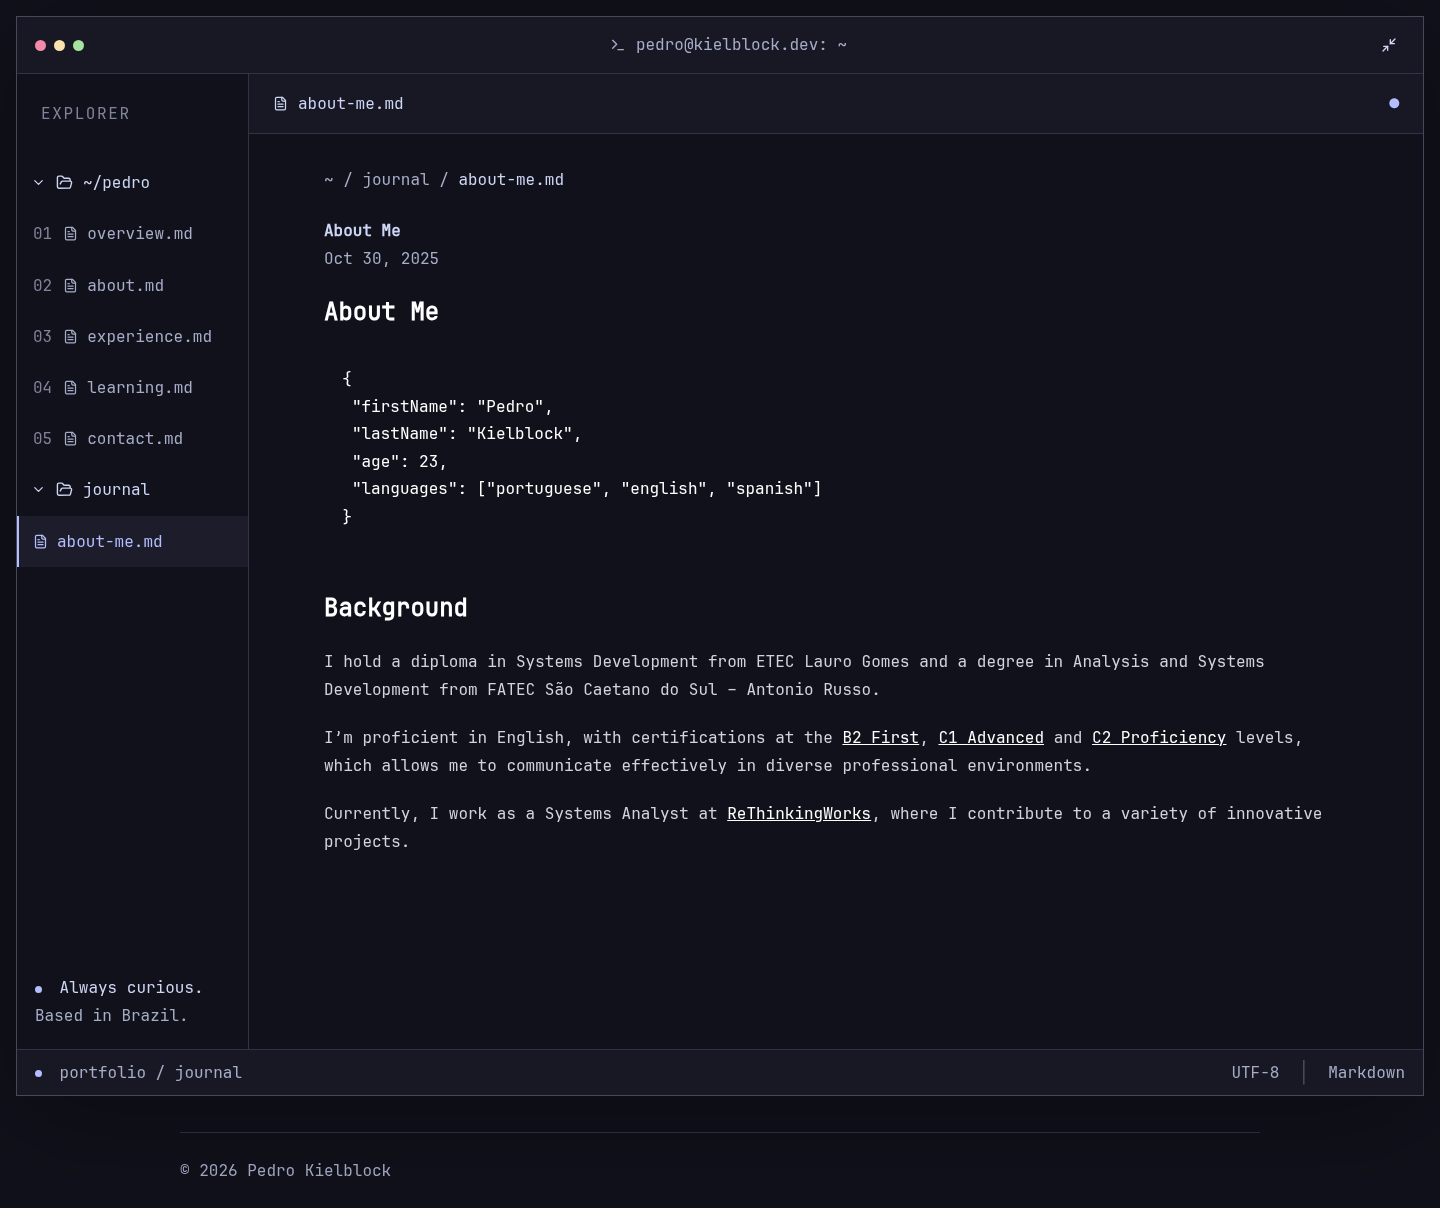
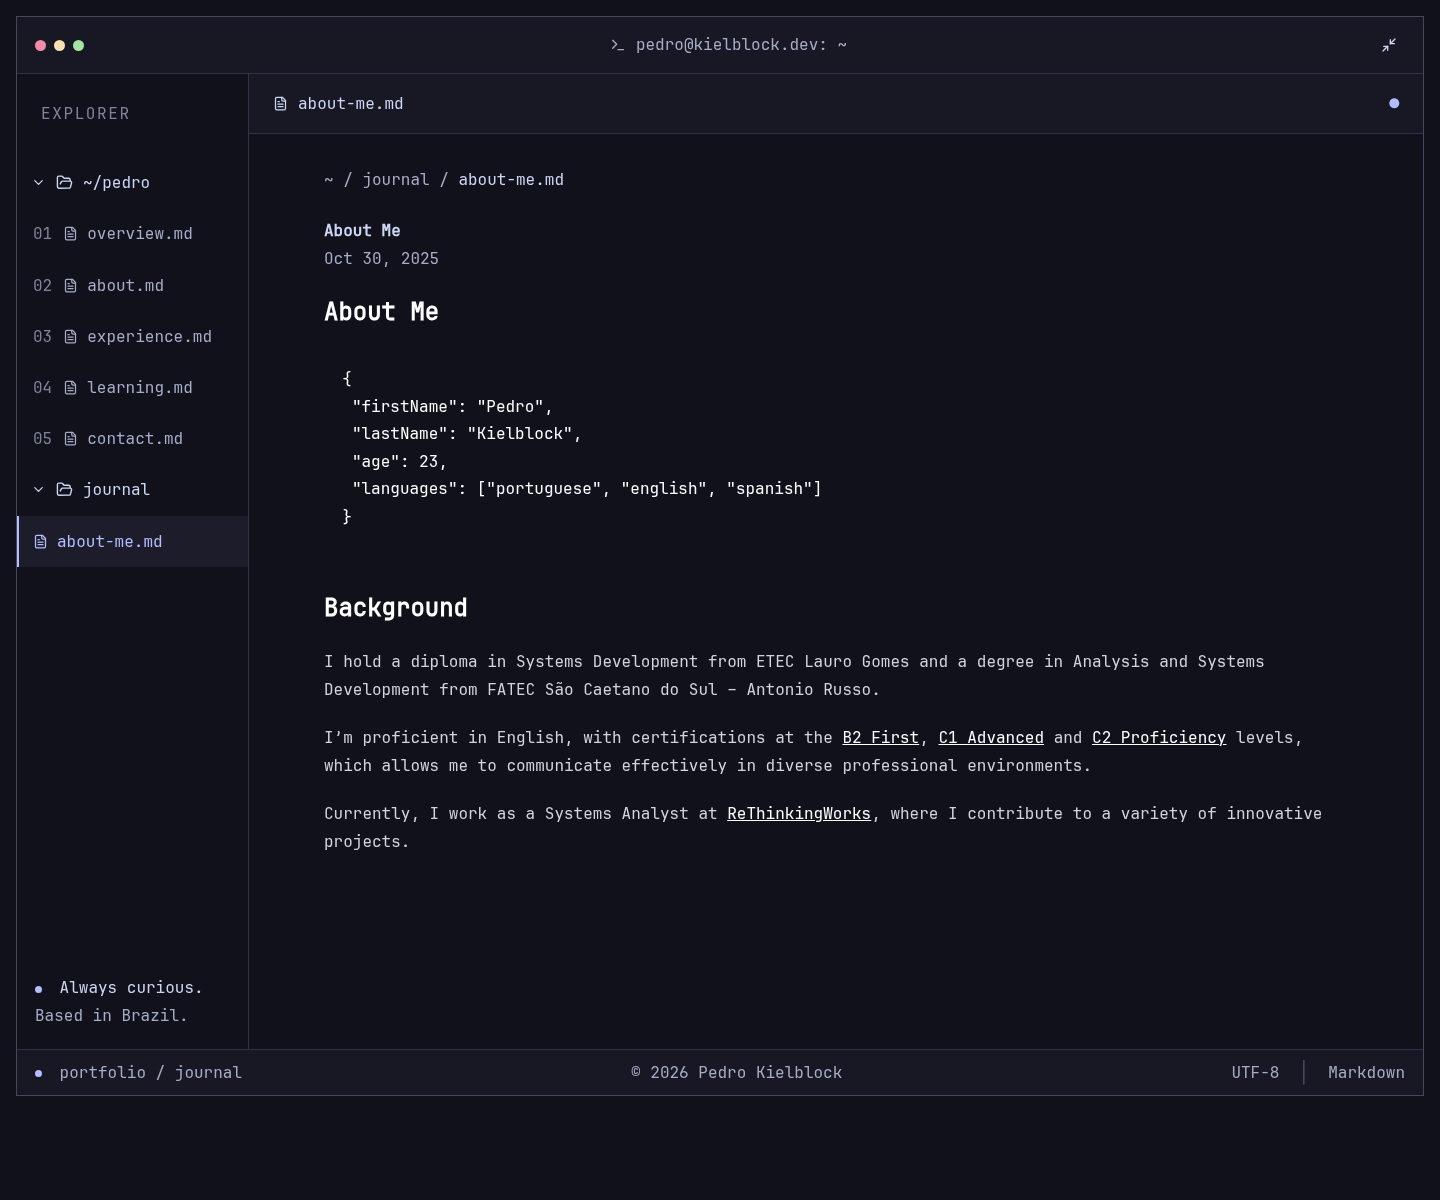
fix: tidy portfolio footer and social links

diff --git a/src/routes/+page.svelte b/src/routes/+page.svelte
@@ -201,7 +201,7 @@
 								<div class="identity">
 									<div>
 										<p class="eyebrow">SOFTWARE DEVELOPER</p>
-										<h1>Pedro Kielblock<span class="accent">_</span></h1>
+										<h1>Pedro Kielblock</h1>
 										<p class="muted">Santo André, São Paulo, BR</p>
 									</div>
 								</div>
@@ -245,12 +245,21 @@
 								<div class="skills">
 									{#each DATA.skills as skill}<span>{skill}</span>{/each}
 								</div>
-								<a
-									class="link-button"
-									href={DATA.contact.social.LinkedIn.url}
-									target="_blank"
-									rel="noopener noreferrer"><Linkedin size={18} /> LinkedIn</a
-								>
+								<div class="social-links">
+									<a
+										class="link-button"
+										href={DATA.contact.social.GitHub.url}
+										target="_blank"
+										rel="noopener noreferrer"
+										><Github size={18} /> GitHub <ArrowUpRight size={16} /></a
+									><a
+										class="link-button"
+										href={DATA.contact.social.LinkedIn.url}
+										target="_blank"
+										rel="noopener noreferrer"
+										><Linkedin size={18} /> LinkedIn <ArrowUpRight size={16} /></a
+									>
+								</div>
 							{:else if section === 'experience'}
 								<p class="comment">// things I've helped build</p>
 								<h1><span class="accent">#</span> Work experience</h1>
@@ -323,21 +332,6 @@
 									>
 								</div>
 								<p class="copy-status" role="status">{copyStatus}</p>
-								<div class="social-links">
-									<a
-										class="link-button"
-										href={DATA.contact.social.GitHub.url}
-										target="_blank"
-										rel="noopener noreferrer"
-										><Github size={18} /> GitHub <ArrowUpRight size={16} /></a
-									><a
-										class="link-button"
-										href={DATA.contact.social.LinkedIn.url}
-										target="_blank"
-										rel="noopener noreferrer"
-										><Linkedin size={18} /> LinkedIn <ArrowUpRight size={16} /></a
-									>
-								</div>
 							{/if}
 						</div>
 					{/key}
@@ -345,9 +339,9 @@
 			</div>
 		</div>
 		<footer class="window-status">
-			<span><span class="status-dot"></span> portfolio / {section}</span><span
-				>UTF-8 <span class="status-separator">│</span> Markdown</span
-			>
+			<span><span class="status-dot"></span> portfolio / {section}</span>
+			<span>© {new Date().getFullYear()} Pedro Kielblock</span>
+			<span>UTF-8 <span class="status-separator">│</span> Markdown</span>
 		</footer>
 	</section>
 </main>

diff --git a/src/routes/+layout.svelte b/src/routes/+layout.svelte
@@ -18,6 +18,8 @@
 >
 	<slot />
 </div>
-<footer class="site-footer">
-	<span>© {new Date().getFullYear()} Pedro Kielblock</span>
-</footer>
+{#if page.url.pathname !== '/'}
+	<footer class="site-footer">
+		<span>© {new Date().getFullYear()} Pedro Kielblock</span>
+	</footer>
+{/if}

diff --git a/README.md b/README.md
@@ -4,9 +4,9 @@ A personal portfolio built with SvelteKit 3, Svelte 5, TypeScript 6, and Tailwin
 
 ## Interface
 
-The portfolio uses a square terminal-style window with Catppuccin Mocha Crust surfaces, Lavender accents, and locally hosted JetBrains Mono at 16px. A `kielblockdev` ASCII wordmark sits above the profile. Icon buttons link to GitHub, LinkedIn, email, journal, education, certifications, and courses; the learning shortcuts open their category directly. It is a clickable website: file-style navigation opens overview, about, experience, learning, and contact views. Experience entries expand, learning categories switch, the window expands, and the email address can be copied. There is no command prompt.
+The portfolio uses a square terminal-style window with Catppuccin Mocha Crust surfaces, Lavender accents, and locally hosted JetBrains Mono at 16px. A `kielblockdev` ASCII wordmark sits above the profile. The name heading reads `Pedro Kielblock` without a trailing cursor. Icon buttons link to GitHub, LinkedIn, email, journal, education, certifications, and courses; the learning shortcuts open their category directly. It is a clickable website: file-style navigation opens overview, about, experience, learning, and contact views. Experience entries expand, learning categories switch, the window expands, and the email address can be copied. About groups the GitHub and LinkedIn buttons together; Contact provides email and its copy button. There is no command prompt.
 
-Navigation uses URL fragments, so sections can be linked directly. The explorer has two collapsible folders: `~/pedro` contains the portfolio sections, and `journal` lists published Markdown entries. Selecting an entry opens it in the document pane; direct links use `/#journal/<slug>`. Both folders support mouse and keyboard controls on desktop and mobile. The outer workspace heading, tagline, GitHub bar, and privacy link have been removed; the privacy page remains available at `/privacy`. The workspace opens expanded by default and fills the desktop viewport with small outer margins. Content is centered in the document pane, with a two-column introduction on wide screens. On mobile, every section link remains visible in a navigation grid, a compact ASCII wordmark fits the screen, and content scrolls naturally with the page. Keyboard navigation, visible focus, and reduced-motion preferences are supported. The journal and privacy routes share the same theme. A matching SVG terminal favicon uses Crust and Lavender. On opening the homepage, a 3.5-second CSS sequence types `open overview.md`, pauses, then reveals the workspace; it does not block interaction or use timers or browser storage. Reduced-motion users see the workspace immediately. The homepage browser title is `pedro@kielblockdev`. The introduction covers work at ReThinkingWorks and personal interests in Linux, self-hosting, and small tools.
+Navigation uses URL fragments, so sections can be linked directly. The explorer has two collapsible folders: `~/pedro` contains the portfolio sections, and `journal` lists published Markdown entries. Selecting an entry opens it in the document pane; direct links use `/#journal/<slug>`. Both folders support mouse and keyboard controls on desktop and mobile. The outer workspace heading, tagline, GitHub bar, and privacy link have been removed; the privacy page remains available at `/privacy`. The workspace opens expanded by default and fills the desktop viewport with small outer margins. Content is centered in the document pane, with a two-column introduction on wide screens. On mobile, every section link remains visible in a navigation grid, a compact ASCII wordmark fits the screen, and content scrolls naturally with the page. Keyboard navigation, visible focus, and reduced-motion preferences are supported. The journal and privacy routes share the same theme. A matching SVG terminal favicon uses Crust and Lavender. On opening the homepage, a 3.5-second CSS sequence types `open overview.md`, pauses, then reveals the workspace; it does not block interaction or use timers or browser storage. The homepage copyright sits in the bottom status bar and stays hidden with the workspace during the opening sequence. Other routes retain their page footer. Reduced-motion users see the workspace immediately. The homepage browser title is `pedro@kielblockdev`. The introduction covers work at ReThinkingWorks and personal interests in Linux, self-hosting, and small tools.
 
 ## Development
 
@@ -40,6 +40,8 @@ It checks the served SVG favicon, workspace opening animation and reduced-motion
 ![Terminal-style portfolio overview](docs/portfolio-desktop.png)
 
 [Wide desktop](docs/portfolio-wide.png) · [Mobile](docs/portfolio-mobile.png) · [Journal](docs/journal.png) · [Opening sequence](docs/workspace-opening.png)
+
+[About](docs/about.png) · [Contact](docs/contact.png)
 
 ## Credits
 
